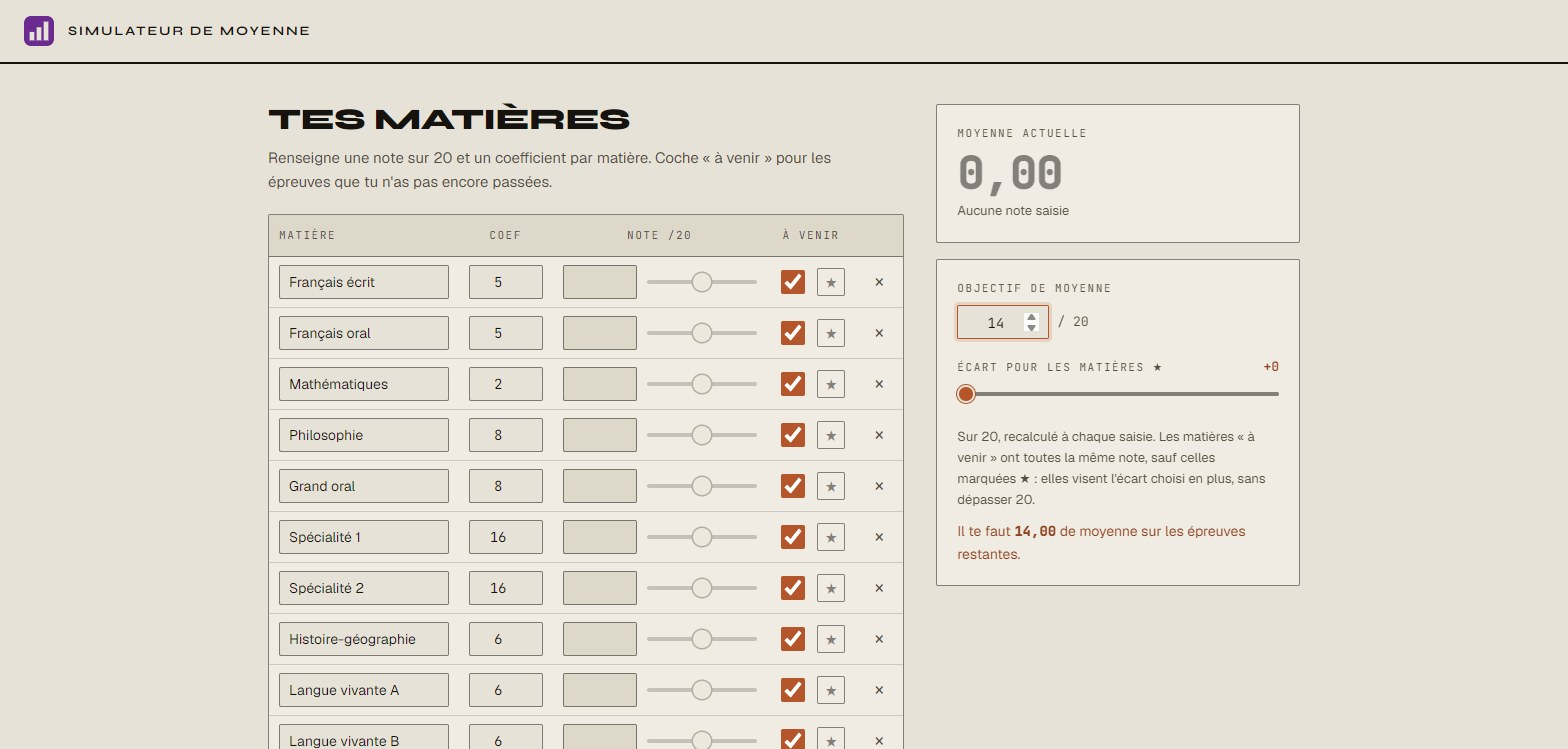
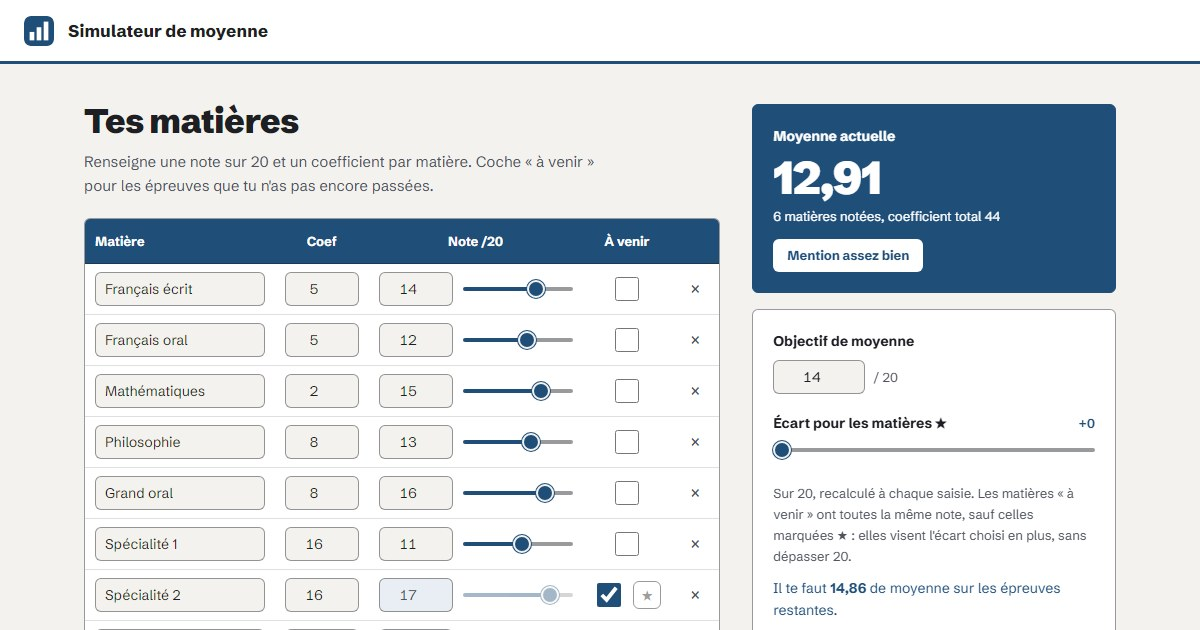
Vignette de partage refaite avec le design actuel (1200 × 630)

diff --git a/index.html b/index.html
@@ -17,7 +17,7 @@
   <meta property="og:title" content="Simulateur de moyenne | Pierre Dunand-Chatellet">
   <meta property="og:description" content="Calcule ta moyenne pondérée du bac et la note qu'il te reste à obtenir pour atteindre ton objectif.">
   <meta property="og:url" content="https://dunandchatellet.fr/simulateur/">
-  <meta property="og:image" content="https://dunandchatellet.fr/simulateur/apercu.jpg">
+  <meta property="og:image" content="https://dunandchatellet.fr/simulateur/apercu.jpg?v=20261116-1">
   <link rel="stylesheet" href="fonts/fonts.css">
   <link rel="stylesheet" href="style.css?v=20261001-2">
 </head>
